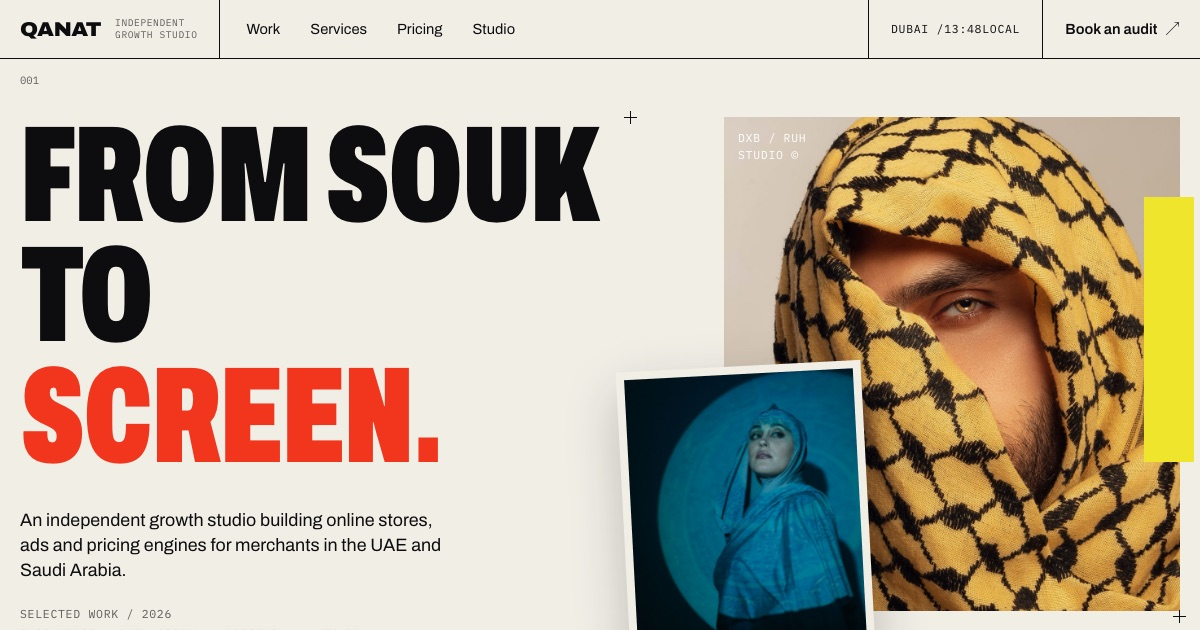
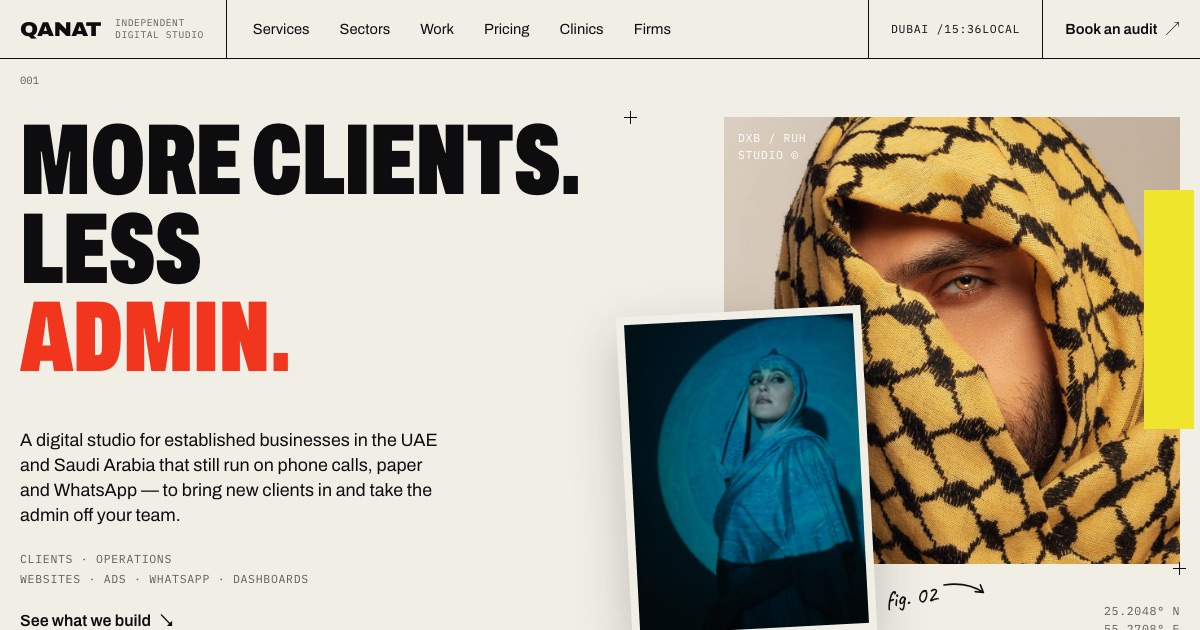
Reposition homepage: digital studio for clients + operations

diff --git a/index.html b/index.html
@@ -3,13 +3,13 @@
 <head>
 <meta charset="utf-8">
 <meta name="viewport" content="width=device-width, initial-scale=1, viewport-fit=cover">
-<title>Qanat — Growth studio for Gulf merchants</title>
-<meta name="description" content="Qanat is an independent growth studio building online stores, ads, pricing engines and WhatsApp automation for merchants in the UAE and Saudi Arabia.">
+<title>Qanat — Digital studio for Gulf businesses</title>
+<meta name="description" content="Qanat brings established businesses in the UAE and Saudi Arabia online: websites, ads and reviews that win new clients, and WhatsApp automation and dashboards that run day-to-day operations.">
 <link rel="canonical" href="https://qanatstudio.com/">
 <meta property="og:type" content="website">
 <meta property="og:url" content="https://qanatstudio.com/">
-<meta property="og:title" content="Qanat — Growth studio for Gulf merchants">
-<meta property="og:description" content="Online stores, ads, pricing engines and WhatsApp automation for merchants in the UAE and Saudi Arabia. Free 30-minute audit.">
+<meta property="og:title" content="Qanat — More clients. Less admin.">
+<meta property="og:description" content="A digital studio for established businesses in the UAE and Saudi Arabia: new clients in, admin out. Free 30-minute audit.">
 <meta property="og:image" content="https://qanatstudio.com/img/og.jpg">
 <meta name="twitter:card" content="summary_large_image">
 <meta name="theme-color" content="#F1EEE6">
@@ -23,8 +23,8 @@
 
 <header class="bar">
   <div class="wrap">
-    <a class="brand" href="#top"><b>QANAT</b><span class="mono">Independent<br>growth studio</span></a>
-    <nav class="menu"><a href="#work">Work</a><a href="#services">Services</a><a href="#plans">Pricing</a><a href="clinics/">Clinics</a><a href="firms/">Firms</a></nav>
+    <a class="brand" href="#top"><b>QANAT</b><span class="mono">Independent<br>digital studio</span></a>
+    <nav class="menu"><a href="#services">Services</a><a href="#sectors">Sectors</a><a href="#work">Work</a><a href="#plans">Pricing</a><a href="clinics/">Clinics</a><a href="firms/">Firms</a></nav>
     <div class="clock mono">Dubai / <span id="clock">--:--</span> local</div>
     <a class="start" href="#contact">Book an audit <span>↗</span></a>
   </div>
@@ -35,11 +35,11 @@
   <span class="idx">001</span>
   <div class="wrap">
     <div class="h-left">
-      <h1 class="cond h-title"><span class="ln"><span>From souk</span></span><span class="ln"><span>to</span></span><span class="ln"><span class="red">screen.</span></span></h1>
+      <h1 class="cond h-title long"><span class="ln"><span>More clients.</span></span><span class="ln"><span>Less</span></span><span class="ln"><span class="red">admin.</span></span></h1>
       <div class="h-sub">
-        <p class="lead">An independent growth studio building online stores, ads and pricing engines for merchants in the UAE and Saudi Arabia.</p>
-        <div class="h-meta mono"><span>Selected work / 2026</span><span>E-commerce · Paid social · Pricing · WhatsApp</span></div>
-        <a class="ulink" href="#work">View selected work <span>↘</span></a>
+        <p class="lead">A digital studio for established businesses in the UAE and Saudi Arabia that still run on phone calls, paper and WhatsApp — to bring new clients in and take the admin off your team.</p>
+        <div class="h-meta mono"><span>Clients · Operations</span><span>Websites · Ads · WhatsApp · Dashboards</span></div>
+        <a class="ulink" href="#services">See what we build <span>↘</span></a>
       </div>
     </div>
     <div class="h-right">
@@ -59,21 +59,56 @@
   <span class="idx">002</span>
   <div class="wrap">
     <div class="mani-grid">
-      <h2 class="rv">We build the online channel <span class="slash">/</span> for merchants who already sell offline.</h2>
-      <p class="rv">Great shops, loyal customers, real stock — and orders still taken one by one on WhatsApp. We turn that into a store that sells while you sleep.</p>
+      <h2 class="rv">Great businesses, analogue tools <span class="slash">/</span> we build the digital layer.</h2>
+      <p class="rv">Clinics, firms, schools, retailers: the work is excellent, the tools are not. Bookings on paper, leads lost on WhatsApp, numbers in someone's head. We fix both sides — the clients coming in and the work behind them.</p>
     </div>
     <div class="steps rv">
-      <div><b>01</b><span class="mono">Store</span><i></i></div>
-      <div><b>02</b><span class="mono">Ads</span><i></i></div>
-      <div><b>03</b><span class="mono">Pricing</span><i></i></div>
-      <div><b>04</b><span class="mono">WhatsApp</span><i></i></div>
+      <div><b>01</b><span class="mono">Audit</span><i></i></div>
+      <div><b>02</b><span class="mono">Build</span><i></i></div>
+      <div><b>03</b><span class="mono">Automate</span><i></i></div>
+      <div><b>04</b><span class="mono">Grow</span><i></i></div>
     </div>
   </div>
 </section>
 
-<!-- 003 WORK -->
+<!-- BAND -->
+<div class="band" aria-hidden="true"><div class="band-in" id="band" data-words="Digitise,Automate,Grow"></div></div>
+
+<!-- 003 SERVICES -->
+<section class="sec svc" id="services">
+  <span class="idx">003</span>
+  <div class="wrap">
+    <div class="svc-head">
+      <h2 class="cond rv">What we<br><span class="red">build.</span></h2>
+      <p class="rv">Two jobs: win new clients, and run the day-to-day without the paperwork. Take one piece or all four — every account stays in your name.</p>
+    </div>
+    <div class="rows">
+      <div class="row rv" data-img="img/c-305567.jpg"><span class="n">/01<br>Clients</span><h3>Website &amp; booking</h3><p>A site that turns a Google search into a booked call, visit or appointment. Arabic and English, linked to your calendar.</p><span class="price">Launch<b>12,000 AED</b></span></div>
+      <div class="row rv" data-img="img/f-8939105.jpg"><span class="n">/02<br>Clients</span><h3>Ads &amp; reviews</h3><p>Google, Meta, Snapchat and LinkedIn, run every week — plus a review request after every job, so strangers see what your clients already know.</p><span class="price">Monthly<b>7,500 AED</b></span></div>
+      <div class="row rv" data-img="img/c-21792116.jpg"><span class="n">/03<br>Operations</span><h3>WhatsApp automation</h3><p>Instant replies day and night, bookings, reminders, follow-ups and payment links — handled without anyone picking up the phone.</p><span class="price">From<b>2,500 AED / mo</b></span></div>
+      <div class="row rv" data-img="img/f-8154768.jpg"><span class="n">/04<br>Operations</span><h3>Dashboards &amp; tools</h3><p>Your bookings, sales, stock, prices and margin in one place, every morning. Built on the tools you already use — Sheets, your POS, your CRM.</p><span class="price">Quoted after<b>the audit</b></span></div>
+    </div>
+  </div>
+  <div class="peek" id="peek"><img alt=""></div>
+</section>
+
+<!-- 004 SECTORS -->
+<section class="sec rules" id="sectors">
+  <span class="idx">004</span>
+  <div class="wrap">
+    <h2 class="cond rv">Who we<br>work <span class="red">with.</span></h2>
+    <div class="rv">
+      <p>Established, owner-led businesses of 3 to 50 people — busy, well reviewed, and still doing by hand what software should do for them.</p>
+      <ul>
+        <li><a href="clinics/">Clinics →</a></li><li><a href="firms/">Business setup &amp; PRO →</a></li><li><a href="firms/">Legal &amp; accounting →</a></li><li><a href="firms/">Consulting →</a></li><li><a href="firms/">Schools &amp; training →</a></li><li>Retail &amp; brands</li><li>Hospitality</li>
+      </ul>
+    </div>
+  </div>
+</section>
+
+<!-- 005 WORK -->
 <section class="sec" id="work">
-  <span class="idx" style="z-index:3;color:inherit">003</span>
+  <span class="idx" style="z-index:3;color:inherit">005</span>
   <div class="work">
     <a class="wcard w1 rv" href="#contact">
       <div><p class="mono" style="margin-top:14px">Selected work</p><p class="num" style="margin-top:14px">01</p>
@@ -98,111 +133,90 @@
     </a>
     <a class="wcard w4 rv" href="#contact">
       <div><p class="num">04</p>
-        <h3 class="cond big">Your<br>brand<br>next.</h3>
-        <div class="meta mono"><span>Founding clients</span><span>Build at half price</span></div></div>
+        <h3 class="cond big">Your<br>business<br>next.</h3>
+        <div class="meta mono"><span>Founding clients</span><span>Launch at half price</span></div></div>
       <div><p class="mono" style="margin-bottom:8px">Spots left</p><div class="spots"><i>1</i><i>2</i><i>3</i></div></div>
       <div class="go"><span class="mono" style="font-size:.8rem">Claim a spot</span><span>→</span></div>
     </a>
   </div>
 </section>
 
-<!-- BAND -->
-<div class="band" aria-hidden="true"><div class="band-in" id="band" data-words="List,Sell,Scale"></div></div>
-
-<!-- 004 SERVICES -->
-<section class="sec svc" id="services">
-  <span class="idx">004</span>
-  <div class="wrap">
-    <div class="svc-head">
-      <h2 class="cond rv">What we<br><span class="red">build.</span></h2>
-      <p class="rv">Four pieces, one channel. Take one, or let us run all four — everything stays in your name.</p>
-    </div>
-    <div class="rows">
-      <div class="row rv" data-img="img/leyl-red.jpg"><span class="n">/01</span><h3>Online store</h3><p>A Shopify store your customers can actually buy from. Card, Apple Pay, Tabby, Tamara, cash on delivery. Arabic and English.</p><span class="price">From<b>18,000 AED</b></span></div>
-      <div class="row rv" data-img="img/simonetta-beach.jpg"><span class="n">/02</span><h3>Ads &amp; growth</h3><p>Meta, Snapchat, TikTok and Google, run every day — with tracking that works and creatives made from your own products.</p><span class="price">Monthly<b>6,000 AED</b></span></div>
-      <div class="row rv" data-img="img/aelis-pink.jpg"><span class="n">/03</span><h3>Pricing engine</h3><p>Your margin on every product, every morning. Competitor prices on noon, Amazon and local stores — and an alert the day a rival moves.</p><span class="price">Included in<b>Growth</b></span></div>
-      <div class="row rv" data-img="img/simonetta-tea.jpg"><span class="n">/04</span><h3>WhatsApp automation</h3><p>Orders, confirmations, delivery updates and abandoned carts — handled without you picking up the phone.</p><span class="price">Included in<b>Growth</b></span></div>
-    </div>
-  </div>
-  <div class="peek" id="peek"><img alt=""></div>
-</section>
-
-<!-- 005 FACES -->
+<!-- 006 FACES -->
 <section class="sec faces">
-  <span class="idx">005</span>
-  <div class="wrap faces-head">
-    <h2 class="rv">Your customers already shop on their phones. <span class="soft">Your store should be there when they do.</span></h2>
-    <p class="mono rv">Dubai · Abu Dhabi · Sharjah · Riyadh · Jeddah · Dammam</p>
-  </div>
-  <div class="reel" id="reel" data-faces="leyl-red,face-navy,simonetta-beach,aelis-red,face-sky,leyl-bw,simonetta-lounge,face-abaya,leyl-fur,face-street,aelis-pink,face-desert"></div>
-</section>
-
-<!-- 006 NUMBERS -->
-<section class="sec">
   <span class="idx">006</span>
+  <div class="wrap faces-head">
+    <h2 class="rv">Your clients already live on their phones. <span class="soft">Your business should be one tap away.</span></h2>
+    <p class="mono rv">Dubai · Abu Dhabi · Sharjah · Riyadh · Jeddah · Khobar</p>
+  </div>
+  <div class="reel" id="reel" data-faces="f-8939103,c-31141459,leyl-red,f-10341109,c-4506073,simonetta-beach,f-8121958,c-34833864,aelis-pink,f-8939049,face-abaya,c-7446659"></div>
+</section>
+
+<!-- 007 NUMBERS -->
+<section class="sec">
+  <span class="idx">007</span>
   <div class="nums">
-    <div class="rv"><span class="v" data-count="160">0</span><span class="k">Merchants reviewed</span><p>Established shops in the UAE and Saudi Arabia, studied this month.</p></div>
-    <div class="rv"><span class="v">&lt;1/20</span><span class="k">Can take a card online</span><p>Great reviews, real stock — and no checkout.</p></div>
-    <div class="rv"><span class="v" data-count="30">0</span><span class="k">Days to go live</span><p>Or the build is free. Written in the contract.</p></div>
-    <div class="rv"><span class="v"><span data-count="6">0</span>%</span><span class="k">Only on what sells</span><p>Our share comes from online sales — never from your ad budget.</p></div>
+    <div class="rv"><span class="v" data-count="260">0</span><span class="k">Businesses reviewed</span><p>Clinics, firms and retailers in the UAE and Saudi Arabia, studied this month.</p></div>
+    <div class="rv"><span class="v" data-count="30">0</span><span class="k">Days to go live</span><p>From the audit to a working site, booking flow and WhatsApp.</p></div>
+    <div class="rv"><span class="v">24/7</span><span class="k">Every message answered</span><p>Nights and weekends included — when most enquiries arrive.</p></div>
+    <div class="rv"><span class="v" data-count="1">0</span><span class="k">Number every week</span><p>What each new client cost you. Nothing else to read.</p></div>
   </div>
 </section>
 
-<!-- 007 PLANS -->
+<!-- 008 PLANS -->
 <section class="sec plans" id="plans">
-  <span class="idx">007</span>
+  <span class="idx">008</span>
   <div class="wrap">
-    <h2 class="cond rv">Paid on what <span class="red">sells.</span></h2>
+    <h2 class="cond rv">Priced to <span class="red">pay back.</span></h2>
     <div class="pgrid rv">
       <div class="plan">
         <div class="pn mono"><span>Audit</span><span>30 min</span></div>
         <p class="amt">Free</p>
-        <ul><li>Review of your products and prices</li><li>What an online channel would bring</li><li>Written plan with numbers</li></ul>
-        <a class="btn" href="https://wa.me/971551397867?text=Hi%20Yahia%2C%20I%27d%20like%20to%20book%20the%20free%2030-minute%20audit%20for%20my%20store." target="_blank" rel="noopener">Book the audit <span>↗</span></a>
+        <ul><li>How clients find and reach you today</li><li>Where time and leads are lost</li><li>Written plan with numbers</li></ul>
+        <a class="btn" href="https://wa.me/971551397867?text=Hi%20Yahia%2C%20I%27d%20like%20to%20book%20the%20free%2030-minute%20audit%20for%20my%20business." target="_blank" rel="noopener">Book the audit <span>↗</span></a>
       </div>
       <div class="plan hot">
         <div class="pn mono"><span>Launch + Growth</span><span class="chip">Most chosen</span></div>
-        <p class="amt">6,000<small>AED / month</small></p>
-        <p style="opacity:.7;font-size:.94rem">+ 6% of online sales, after an 18,000 AED build.</p>
-        <ul><li>Store live in 30 days</li><li>Ads managed every day</li><li>Pricing engine &amp; WhatsApp automation</li><li>One report every week</li></ul>
+        <p class="amt">7,500<small>AED / month</small></p>
+        <p style="opacity:.7;font-size:.94rem">After a 12,000 AED launch. Ad budget paid directly to the platforms.</p>
+        <ul><li>Website &amp; booking live in 30 days</li><li>Ads managed every week</li><li>WhatsApp automation</li><li>Google reviews engine</li><li>One report every week</li></ul>
         <a class="btn" href="https://wa.me/971551397867?text=Hi%20Yahia%2C%20I%27m%20interested%20in%20Launch%20%2B%20Growth.%20Can%20we%20start%20with%20the%20audit%3F" target="_blank" rel="noopener">Start with an audit <span>↗</span></a>
       </div>
       <div class="plan">
-        <div class="pn mono"><span>Store only</span><span>One-off</span></div>
-        <p class="amt">18,000<small>AED</small></p>
-        <p><span class="chip" style="background:var(--ink)">Founding clients: 9,000 AED</span></p>
-        <ul><li>Shopify, up to 100 products</li><li>Payments, delivery, WhatsApp ordering</li><li>Tracking installed and verified</li></ul>
-        <a class="btn" href="https://wa.me/971551397867?text=Hi%20Yahia%2C%20I%27d%20like%20a%20quote%20for%20an%20online%20store." target="_blank" rel="noopener">Get a quote <span>↗</span></a>
+        <div class="pn mono"><span>Operations</span><span>Monthly</span></div>
+        <p class="amt">2,500<small>AED / month</small></p>
+        <p><span class="chip" style="background:var(--ink)">Founding clients: launch 6,000 AED</span></p>
+        <ul><li>WhatsApp replies, bookings &amp; reminders</li><li>Follow-ups and payment links</li><li>Dashboards quoted after the audit</li></ul>
+        <a class="btn" href="https://wa.me/971551397867?text=Hi%20Yahia%2C%20I%27d%20like%20to%20automate%20operations%20in%20my%20business." target="_blank" rel="noopener">Ask about it <span>↗</span></a>
       </div>
     </div>
-    <p class="mono" style="margin-top:16px;color:var(--muted)">Saudi clients billed the same amount in SAR · ad budget always on your own account</p>
+    <p class="mono" style="margin-top:16px;color:var(--muted)">Target cost per new client agreed up front · Saudi clients billed the same amount in SAR</p>
   </div>
 </section>
 
-<!-- 008 FOUNDER -->
+<!-- 009 FOUNDER -->
 <section class="sec founder">
-  <span class="idx">008</span>
+  <span class="idx">009</span>
   <div class="wrap">
     <div class="portrait rv"><span>Founder portrait<br>coming soon</span><div class="fig">that's me <svg width="40" height="22" viewBox="0 0 40 22" fill="none" aria-hidden="true"><path d="M38 4C28 4 14 6 4 16m0 0l7-1m-7 1l2-7" stroke="#0D0D0F" stroke-width="1.6" stroke-linecap="round"/></svg></div></div>
     <div class="rv">
       <p class="mono" style="margin-bottom:18px;color:var(--muted)">The studio</p>
-      <blockquote>“I spent years inside marketplaces watching great merchants hand over their margin and their customers. <span class="red">Qanat gives both back.</span>”</blockquote>
+      <blockquote>“I've spent years running operations and growth inside a Gulf marketplace. The best businesses I met didn't lack clients or talent — <span class="red">they lacked tools.</span>”</blockquote>
       <div class="sig"><b>Yahia El Bellaj</b><span class="mono" style="color:var(--muted)">Founder · Dubai · EN / العربية / FR</span></div>
     </div>
   </div>
 </section>
 
-<!-- 009 CTA -->
+<!-- 010 CTA -->
 <section class="sec cta" id="contact">
-  <span class="idx">009</span>
+  <span class="idx">010</span>
   <div class="wrap">
     <div class="cta-photo rv"><img src="img/face-desert.jpg" alt="Man in a white kandura in the desert at sunset" loading="lazy"></div>
     <div class="rv">
-      <h2>Let's put your shop <span class="red">online.</span></h2>
-      <a class="ulink" href="https://wa.me/971551397867?text=Hi%20Yahia%2C%20I%27d%20like%20to%20book%20the%20free%2030-minute%20audit%20for%20my%20store." target="_blank" rel="noopener">Book a free 30-minute audit <span>↗</span></a>
+      <h2>Let's bring your business <span class="red">online.</span></h2>
+      <a class="ulink" href="https://wa.me/971551397867?text=Hi%20Yahia%2C%20I%27d%20like%20to%20book%20the%20free%2030-minute%20audit%20for%20my%20business." target="_blank" rel="noopener">Book a free 30-minute audit <span>↗</span></a>
     </div>
     <div class="contact mono rv">
-      <span>WhatsApp<br><a href="https://wa.me/971551397867?text=Hi%20Yahia%2C%20I%20found%20Qanat%20and%20I%27d%20like%20to%20talk%20about%20my%20store." target="_blank" rel="noopener">+971 55 139 7867</a></span>
+      <span>WhatsApp<br><a href="https://wa.me/971551397867?text=Hi%20Yahia%2C%20I%20found%20Qanat%20and%20I%27d%20like%20to%20talk%20about%20my%20business." target="_blank" rel="noopener">+971 55 139 7867</a></span>
       <span>LinkedIn<br><a href="https://www.linkedin.com/in/yahia-el-bellaj-05b081aa" target="_blank" rel="noopener">Yahia El Bellaj</a></span>
       <span>Dubai · Riyadh</span>
     </div>
@@ -210,7 +224,7 @@
 </section>
 
 <footer class="foot">
-  <div class="wrap mono"><span>Qanat © 2026</span><span>Independent growth studio for Gulf merchants</span><span>Photography: Leyl Jewels, Atelier Aelis &amp; Maison Simonetta (Instagram) · Pexels</span></div>
+  <div class="wrap mono"><span>Qanat © 2026</span><span>Digital studio for Gulf businesses</span><span>Photography: Leyl Jewels, Atelier Aelis &amp; Maison Simonetta (Instagram) · Pexels</span></div>
 </footer>
 
 <script src="assets/qanat.js"></script>

diff --git a/assets/qanat.css b/assets/qanat.css
@@ -119,14 +119,14 @@ a{color:inherit;text-decoration:none}
 .svc-head h2{font-size:clamp(3.2rem,8vw,7rem)}
 .svc-head p{max-width:360px;color:var(--muted)}
 .rows{border-top:1px solid var(--ink)}
-.row{display:grid;grid-template-columns:70px minmax(0,1.4fr) minmax(0,1.6fr) auto;gap:20px;align-items:center;padding:26px 0;border-bottom:1px solid var(--ink);position:relative;cursor:default}
+.row{display:grid;grid-template-columns:96px minmax(0,1.4fr) minmax(0,1.6fr) auto;gap:20px;align-items:center;padding:26px 0;border-bottom:1px solid var(--ink);position:relative;cursor:default}
 .row .n{font-family:var(--mono);font-size:.8rem;color:var(--muted)}
 .row h3{font-variation-settings:"wdth" 80,"wght" 900;font-size:clamp(1.9rem,3.6vw,3.2rem);text-transform:uppercase;line-height:.95;transition:color .25s ease,transform .35s ease}
 .row p{color:var(--muted);font-size:.98rem;max-width:520px}
 .row .price{font-family:var(--mono);font-size:.82rem;text-align:right;white-space:nowrap}
 .row .price b{display:block;font-family:var(--sans);font-variation-settings:"wdth" 90,"wght" 800;font-size:1.25rem}
 .row:hover h3{color:var(--red);transform:translateX(10px)}
-@media(max-width:820px){.row{grid-template-columns:44px 1fr;gap:10px 14px}.row p{grid-column:2}.row .price{grid-column:2;text-align:left}}
+@media(max-width:820px){.row{grid-template-columns:78px 1fr;gap:10px 14px}.row p{grid-column:2}.row .price{grid-column:2;text-align:left}}
 .peek{position:fixed;left:0;top:0;width:260px;aspect-ratio:4/5;pointer-events:none;z-index:40;overflow:hidden;opacity:0;transform:translate(-50%,-50%) scale(.85) rotate(-4deg);transition:opacity .25s ease,transform .35s cubic-bezier(.2,.7,.2,1);box-shadow:0 30px 60px rgba(0,0,0,.25)}
 .peek.on{opacity:1;transform:translate(-50%,-50%) scale(1) rotate(-4deg)}
 .peek img{width:100%;height:100%;object-fit:cover}
@@ -213,3 +213,5 @@ a{color:inherit;text-decoration:none}
 .rules li s{text-decoration-color:var(--red);text-decoration-thickness:2px}
 .rules p{color:var(--muted);max-width:520px;margin-bottom:22px}
 .h-title.long{font-size:clamp(3.4rem,8.4vw,8.2rem)}
+.rules li a{display:block;margin:-8px -12px;padding:8px 12px;border-radius:40px;transition:background-color .2s ease,color .2s ease}
+.rules li:has(a):hover{background:var(--ink);color:var(--cream)}

diff --git a/firms/index.html b/firms/index.html
@@ -24,7 +24,7 @@
 <header class="bar">
   <div class="wrap">
     <a class="brand" href="../"><b>QANAT</b><span class="mono">Growth studio<br>for firms</span></a>
-    <nav class="menu"><a href="#journey">Journey</a><a href="#services">Services</a><a href="#plans">Pricing</a><a href="../clinics/">Clinics</a><a href="../">Merchants</a></nav>
+    <nav class="menu"><a href="#journey">Journey</a><a href="#services">Services</a><a href="#plans">Pricing</a><a href="../clinics/">Clinics</a><a href="../">Studio</a></nav>
     <div class="clock mono">Dubai / <span id="clock">--:--</span> local</div>
     <a class="start" href="#contact">Book an audit <span>↗</span></a>
   </div>

diff --git a/clinics/index.html b/clinics/index.html
@@ -24,7 +24,7 @@
 <header class="bar">
   <div class="wrap">
     <a class="brand" href="../"><b>QANAT</b><span class="mono">Growth studio<br>for clinics</span></a>
-    <nav class="menu"><a href="#journey">Journey</a><a href="#services">Services</a><a href="#plans">Pricing</a><a href="../firms/">Firms</a><a href="../">Merchants</a></nav>
+    <nav class="menu"><a href="#journey">Journey</a><a href="#services">Services</a><a href="#plans">Pricing</a><a href="../firms/">Firms</a><a href="../">Studio</a></nav>
     <div class="clock mono">Dubai / <span id="clock">--:--</span> local</div>
     <a class="start" href="#contact">Book an audit <span>↗</span></a>
   </div>
